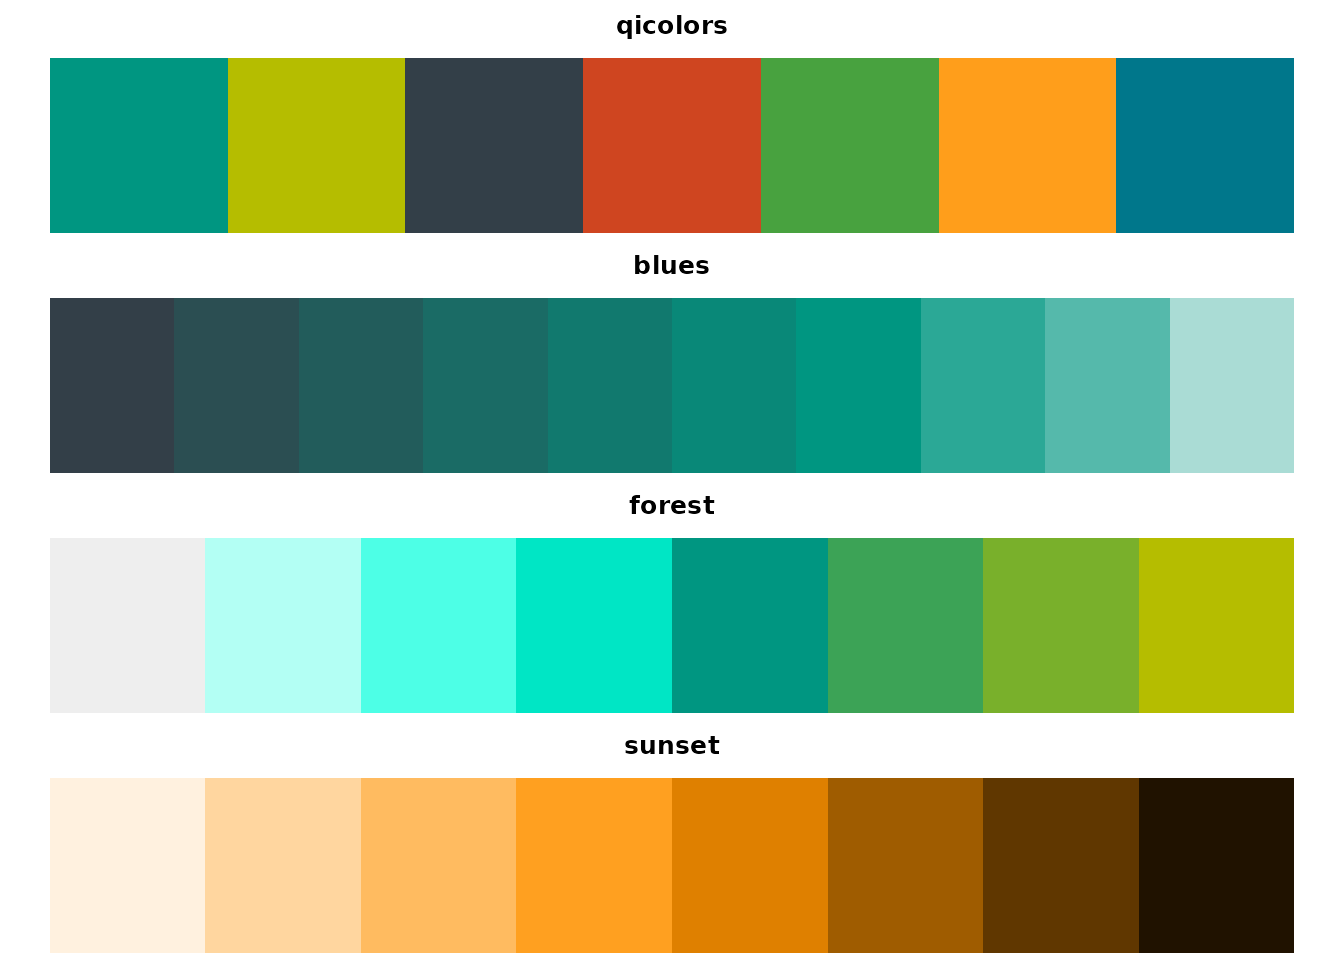
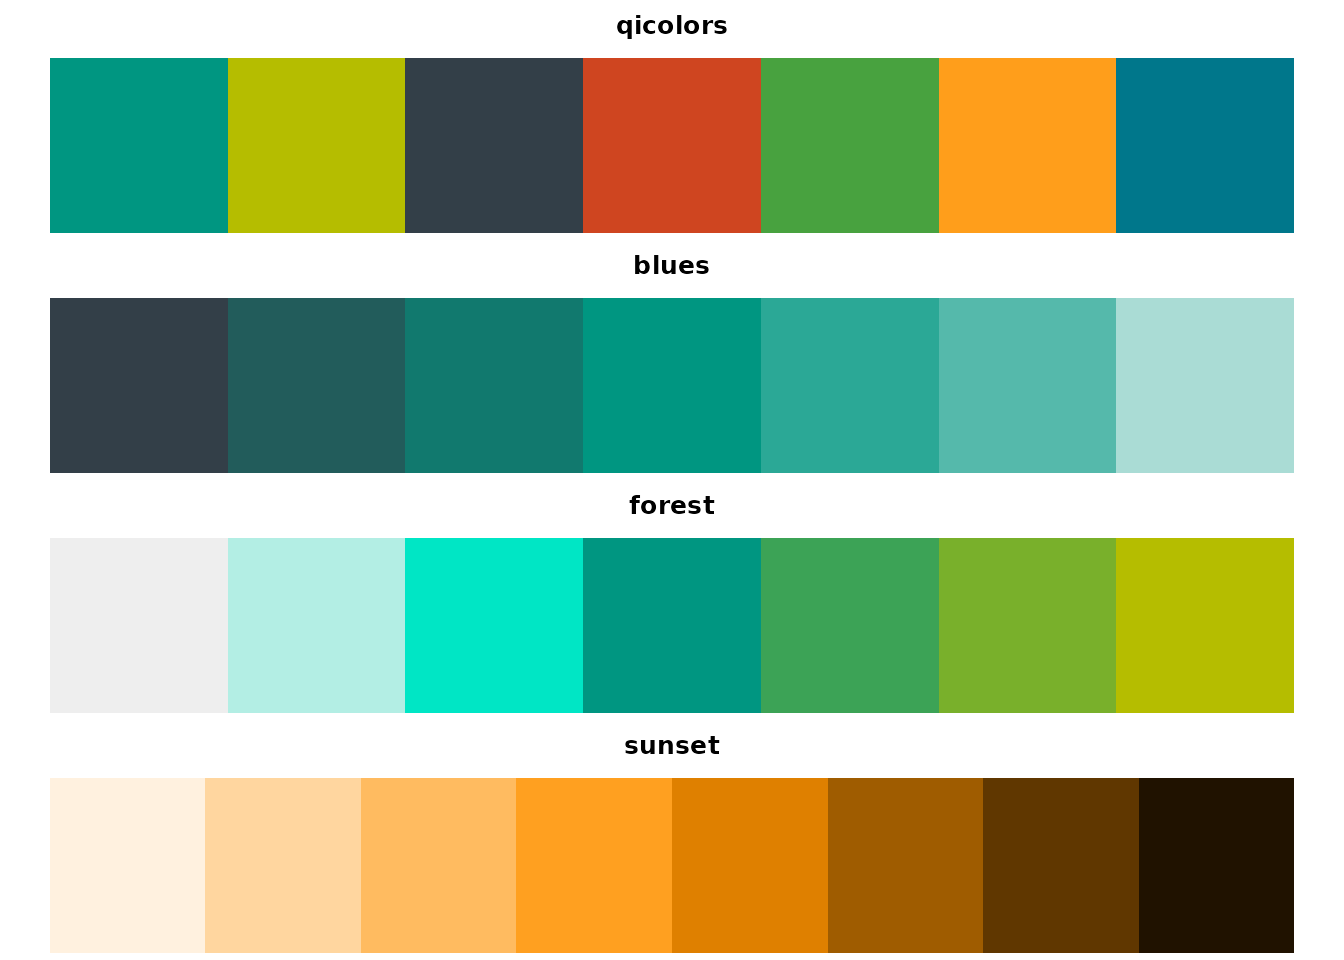
Deploying to gh-pages from @ quadram-institute-bioscience/qipalette@97d08bbfaa838a6d4f2f6f71ea6d5e40f894f8ed 🚀

diff --git a/articles/introduction.html b/articles/introduction.html
@@ -135,17 +135,17 @@ the package functions and apply the palettes to your visualizations.</p>
 <div class="sourceCode" id="cb4"><pre class="downlit sourceCode r">
 <code class="sourceCode R"><span><span class="co"># Scatter plot with colors by group</span></span>
 <span><span class="fu"><a href="https://rdrr.io/r/graphics/plot.default.html" class="external-link">plot</a></span><span class="op">(</span><span class="fl">1</span><span class="op">:</span><span class="fl">5</span>, <span class="fl">1</span><span class="op">:</span><span class="fl">5</span>, col <span class="op">=</span> <span class="fu"><a href="../reference/get_palette.html">get_palette</a></span><span class="op">(</span><span class="st">"qicolors"</span>, <span class="fl">5</span><span class="op">)</span>, pch <span class="op">=</span> <span class="fl">19</span>, cex <span class="op">=</span> <span class="fl">3</span>,</span>
-<span>     main <span class="op">=</span> <span class="st">"Ocean Palette Demo"</span>, xlab <span class="op">=</span> <span class="st">"X"</span>, ylab <span class="op">=</span> <span class="st">"Y"</span><span class="op">)</span></span></code></pre></div>
+<span>     main <span class="op">=</span> <span class="st">"qicolors Palette Demo"</span>, xlab <span class="op">=</span> <span class="st">"X"</span>, ylab <span class="op">=</span> <span class="st">"Y"</span><span class="op">)</span></span></code></pre></div>
 <p><img src="introduction_files/figure-html/unnamed-chunk-4-1.png" width="672"></p>
 <div class="sourceCode" id="cb5"><pre class="downlit sourceCode r">
 <code class="sourceCode R"><span></span>
 <span><span class="co"># Bar plot</span></span>
-<span><span class="fu"><a href="https://rdrr.io/r/graphics/barplot.html" class="external-link">barplot</a></span><span class="op">(</span><span class="fl">1</span><span class="op">:</span><span class="fl">5</span>, col <span class="op">=</span> <span class="fu"><a href="../reference/get_palette.html">get_palette</a></span><span class="op">(</span><span class="st">"forest"</span><span class="op">)</span>, main <span class="op">=</span> <span class="st">"Forest Palette Demo"</span><span class="op">)</span></span></code></pre></div>
+<span><span class="fu"><a href="https://rdrr.io/r/graphics/barplot.html" class="external-link">barplot</a></span><span class="op">(</span><span class="fl">1</span><span class="op">:</span><span class="fl">5</span>, col <span class="op">=</span> <span class="fu"><a href="../reference/get_palette.html">get_palette</a></span><span class="op">(</span><span class="st">"blues"</span><span class="op">)</span>, main <span class="op">=</span> <span class="st">"blues Palette Demo"</span><span class="op">)</span></span></code></pre></div>
 <p><img src="introduction_files/figure-html/unnamed-chunk-4-2.png" width="672"></p>
 <div class="sourceCode" id="cb6"><pre class="downlit sourceCode r">
 <code class="sourceCode R"><span></span>
 <span><span class="co"># Pie chart</span></span>
-<span><span class="fu"><a href="https://rdrr.io/r/graphics/pie.html" class="external-link">pie</a></span><span class="op">(</span><span class="fu"><a href="https://rdrr.io/r/base/rep.html" class="external-link">rep</a></span><span class="op">(</span><span class="fl">1</span>, <span class="fl">5</span><span class="op">)</span>, col <span class="op">=</span> <span class="fu"><a href="../reference/get_palette.html">get_palette</a></span><span class="op">(</span><span class="st">"sunset"</span><span class="op">)</span>, main <span class="op">=</span> <span class="st">"Sunset Palette Demo"</span><span class="op">)</span></span></code></pre></div>
+<span><span class="fu"><a href="https://rdrr.io/r/graphics/pie.html" class="external-link">pie</a></span><span class="op">(</span><span class="fu"><a href="https://rdrr.io/r/base/rep.html" class="external-link">rep</a></span><span class="op">(</span><span class="fl">1</span>, <span class="fl">5</span><span class="op">)</span>, col <span class="op">=</span> <span class="fu"><a href="../reference/get_palette.html">get_palette</a></span><span class="op">(</span><span class="st">"forest"</span><span class="op">)</span>, main <span class="op">=</span> <span class="st">"forest Palette Demo"</span><span class="op">)</span></span></code></pre></div>
 <p><img src="introduction_files/figure-html/unnamed-chunk-4-3.png" width="672"></p>
 </div>
 </div>
@@ -159,7 +159,7 @@ the package functions and apply the palettes to your visualizations.</p>
 <span><span class="co"># Scatter plot with discrete color scale</span></span>
 <span><span class="fu"><a href="https://ggplot2.tidyverse.org/reference/ggplot.html" class="external-link">ggplot</a></span><span class="op">(</span><span class="va">mtcars</span>, <span class="fu"><a href="https://ggplot2.tidyverse.org/reference/aes.html" class="external-link">aes</a></span><span class="op">(</span><span class="va">wt</span>, <span class="va">mpg</span>, color <span class="op">=</span> <span class="fu"><a href="https://rdrr.io/r/base/factor.html" class="external-link">factor</a></span><span class="op">(</span><span class="va">cyl</span><span class="op">)</span><span class="op">)</span><span class="op">)</span> <span class="op">+</span></span>
 <span>  <span class="fu"><a href="https://ggplot2.tidyverse.org/reference/geom_point.html" class="external-link">geom_point</a></span><span class="op">(</span>size <span class="op">=</span> <span class="fl">3</span><span class="op">)</span> <span class="op">+</span></span>
-<span>  <span class="fu"><a href="../reference/scale_color_palette.html">scale_color_palette</a></span><span class="op">(</span><span class="st">"sunset"</span><span class="op">)</span> <span class="op">+</span></span>
+<span>  <span class="fu"><a href="../reference/scale_color_palette.html">scale_color_palette</a></span><span class="op">(</span><span class="st">"blues"</span><span class="op">)</span> <span class="op">+</span></span>
 <span>  <span class="fu"><a href="https://ggplot2.tidyverse.org/reference/labs.html" class="external-link">labs</a></span><span class="op">(</span>title <span class="op">=</span> <span class="st">"Car Weight vs MPG"</span>, color <span class="op">=</span> <span class="st">"Cylinders"</span><span class="op">)</span></span></code></pre></div>
 <p><img src="introduction_files/figure-html/unnamed-chunk-5-1.png" width="672"></p>
 <div class="sourceCode" id="cb8"><pre class="downlit sourceCode r">

diff --git a/reference/get_palette.html b/reference/get_palette.html
@@ -93,7 +93,7 @@ to produce the desired number of colors.</p></dd>
 <span class="r-out co"><span class="r-pr">#&gt;</span>  [1] "#009681" "#78B02B" "#899318" "#333F48" "#9B432D" "#A1642A" "#48A23F"</span>
 <span class="r-out co"><span class="r-pr">#&gt;</span>  [8] "#C19F27" "#AA9140" "#00778B"</span>
 <span class="r-in"><span><span class="fu">get_palette</span><span class="op">(</span><span class="st">"forest"</span>, <span class="fl">5</span>, reverse <span class="op">=</span> <span class="cn">TRUE</span><span class="op">)</span></span></span>
-<span class="r-out co"><span class="r-pr">#&gt;</span> [1] "#009681" "#00e6c5" "#4dffe6" "#b3fff4" "#eeeeee"</span>
+<span class="r-out co"><span class="r-pr">#&gt;</span> [1] "#3CA356" "#009681" "#00e6c5" "#b3eee4" "#eeeeee"</span>
 </code></pre></div>
     </div>
   </div>
